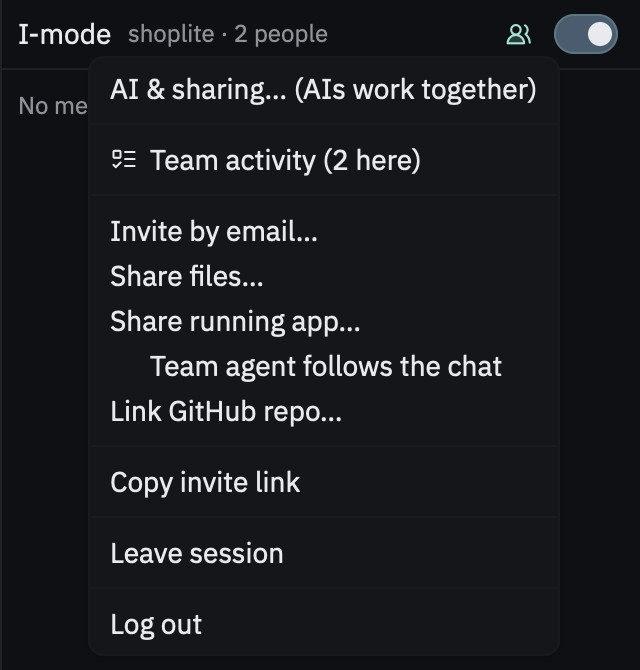
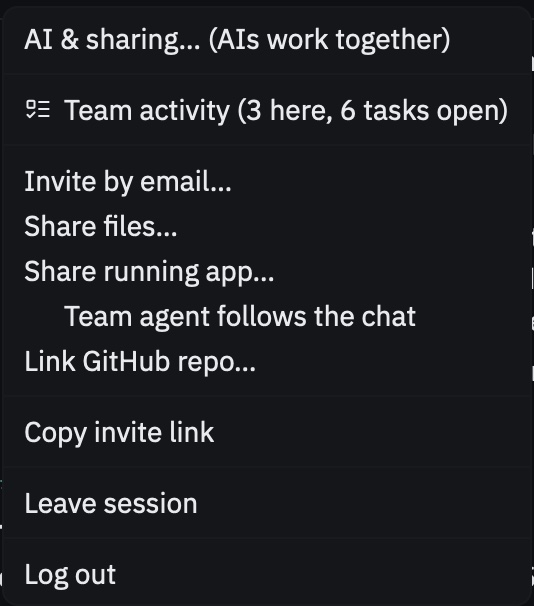
Docs: new screenshots from the current app
Join request, plan, task plan in chat, people menu and Team activity
(Manual, with conflict, to review, not sent and in sync), all taken from
the three-person demo on the final build. Alt text and sizes updated.

diff --git a/site/docs/tutorial.html b/site/docs/tutorial.html
@@ -32,7 +32,7 @@
   <li><strong>Your teammate</strong> opens the link, which opens I-IDE, and signs in if asked. Their panel says they've asked to join.</li>
   <li>In your panel, a request appears with their email address. Check it, then select <strong>Approve</strong>.</li>
 </ol>
-<figure class="small"><img width="276" height="132" src="/docs/img/join-request.jpg" alt="The I-mode panel showing carol@example.test wants to join, with Decline and Approve buttons." loading="lazy"><figcaption>A join request in the owner's panel.</figcaption></figure>
+<figure class="small"><img width="320" height="70" src="/docs/img/join-request.jpg" alt="The top of the I-mode panel: dana@example.test wants to join, with Decline and Approve buttons." loading="lazy"><figcaption>A join request in the owner's panel.</figcaption></figure>
 <p>Your teammate joins as soon as you approve, and the people count at the top of the panel goes up.</p>
 <div class="callout tip"><strong>Tip</strong><p>Don't recognize the email address? Select <strong>Decline</strong>. That account can't ask to join this session again.</p></div>
 <h2>4. Talk through the plan</h2>
@@ -41,7 +41,7 @@
   <li>Say what you're building and who is good at what. For example: "I know the storage code, so I'll take that. Can you do the form and tests?"</li>
   <li>Press <kbd>Return</kbd> to send. Your teammate sees the message right away.</li>
 </ol>
-<figure class="small"><img width="319" height="826" src="/docs/img/plan-mode.jpg" alt="The I-mode panel in Plan mode: the end of a plan with steps that name owners, tests and risks, then Build, Edit plan and Share with team buttons." loading="lazy"><figcaption>A plan in Plan mode, ready to build or share.</figcaption></figure>
+<figure class="small"><img width="318" height="665" src="/docs/img/plan-mode.jpg" alt="The I-mode panel in Plan mode: the end of a plan with steps that name owners, tests and risks, then Build, Edit plan and Share with team buttons." loading="lazy"><figcaption>A plan in Plan mode, ready to build or share.</figcaption></figure>
 <h2>5. Plan the work</h2>
 <ol>
   <li>Choose <strong>Plan</strong> in the mode menu and describe the work, for example "Plan reminders for tasks".</li>
@@ -66,7 +66,7 @@
 <p>To check changes before they go out, choose <strong>Manual</strong> instead and press sync on a file when it's ready. See <a href="/docs/live-editing">Syncing and merging</a>.</p>
 <h2>8. Review the session</h2>
 <p>Open <strong>Team activity</strong> to see who is here and what they're doing, the tasks, and where every file stands: in sync, not sent, to review or in conflict.</p>
-<figure class="small"><img width="274" height="488" src="/docs/img/team-activity.jpg" alt="Team activity: Bob under People, then Files with the sync switch and four files marked conflict, to review, not sent and in sync." loading="lazy"><figcaption>Team activity.</figcaption></figure>
+<figure class="small"><img width="296" height="545" src="/docs/img/team-activity.jpg" alt="Team activity: Bob and Carol under People, the Tasks section, then Files with the sync switch set to Manual and four files marked conflict, to review, not sent and in sync." loading="lazy"><figcaption>Team activity.</figcaption></figure>
 <h2>9. Finish up</h2>
 <p>Your synced files and their versions stay with the session, so there's nothing you have to commit. If your project uses Git, commit as usual. When you're done, select the people icon, then <strong>Leave session</strong>.</p>
 <h2>Next steps</h2>

diff --git a/site/docs/interface.html b/site/docs/interface.html
@@ -23,12 +23,12 @@
   <li><strong>Chat:</strong> your team's messages and your AI's answers.</li>
   <li><strong>Message box:</strong> the tool row, the box itself, and the mode menu (<strong>Team</strong>, <strong>Ask</strong>, <strong>Plan</strong>, <strong>Agent</strong>) with the model and send button.</li>
 </ol>
-<figure class="small"><img width="319" height="826" src="/docs/img/team-chat.jpg" alt="The I-mode panel: the end of a plan, then the task plan the session made from it, listing each person's tasks." loading="lazy"><figcaption>The I-mode chat after a plan was shared.</figcaption></figure>
+<figure class="small"><img width="318" height="670" src="/docs/img/team-chat.jpg" alt="The I-mode panel: the end of a plan, then the task plan the session made from it, listing each person's tasks." loading="lazy"><figcaption>The I-mode chat after a plan was shared.</figcaption></figure>
 <h2>Team activity</h2>
 <p>The <strong>Team activity</strong> panel sits beside your files. It shows who's here and which file each person is editing, with a colored status: amber for editing, blue for an agent running, grey for idle. Below that are the tasks, and every file with its sync state. See <a href="/docs/team-tab">Team activity</a>.</p>
 <h2>The people menu</h2>
 <p>Select the people icon next to the I-mode switch to choose how your AIs work and share, open Team activity, invite people, share files or your running app, and leave a session. If you're not in a session, it's where you create or join one.</p>
-<figure class="small"><img width="320" height="335" src="/docs/img/people-menu.jpg" alt="The people menu: AI &amp; sharing, Team activity, Invite by email, Share files, Share running app, Team agent follows the chat, Link GitHub repo, Copy invite link, Leave session and Log out." loading="lazy"><figcaption>The people menu, as a session owner sees it.</figcaption></figure>
+<figure class="small"><img width="267" height="303" src="/docs/img/people-menu.jpg" alt="The people menu: AI &amp; sharing, Team activity, Invite by email, Share files, Share running app, Team agent follows the chat, Link GitHub repo, Copy invite link, Leave session and Log out." loading="lazy"><figcaption>The people menu, as a session owner sees it.</figcaption></figure>
 <h2>The Command Palette</h2>
 <p>Press <kbd>Cmd</kbd>+<kbd>Shift</kbd>+<kbd>P</kbd> and start typing what you want to do. The palette lists matching commands with their shortcuts, which makes it the fastest way to learn the app.</p>
 <h2>Next steps</h2>

diff --git a/site/docs/team-tab.html b/site/docs/team-tab.html
@@ -1,7 +1,7 @@
 <article data-page="/docs/team-tab" data-group="Work with your team" data-title="Team activity">
 <h1>Team activity</h1>
 <p class="lede">Team activity is its own panel, next to your file folder. It shows who's here, the tasks, and where every file stands between you and the team.</p>
-<figure class="small"><img width="274" height="488" src="/docs/img/team-activity.jpg" alt="Team activity: Bob under People, then Files with a sync switch set to Manual and four files marked conflict, to review, not sent and in sync." loading="lazy"><figcaption>Team activity during a session.</figcaption></figure>
+<figure class="small"><img width="296" height="545" src="/docs/img/team-activity.jpg" alt="Team activity: Bob and Carol under People, the Tasks section, then Files with the sync switch set to Manual and four files marked conflict, to review, not sent and in sync." loading="lazy"><figcaption>Team activity during a session.</figcaption></figure>
 <p>It opens by itself when you start or join a session. Its button in the status bar shows or hides it, and you can drag the line between it and the file folder to resize it.</p>
 
 <h2>People and tasks</h2>

diff --git a/site/docs/invites.html b/site/docs/invites.html
@@ -21,7 +21,7 @@
 <p>I-IDE keeps waiting for 10 minutes. If the owner hasn't answered by then, open the link again to keep waiting. Your request isn't lost.</p>
 <h2>Approve or decline someone</h2>
 <p>If you own the session, each request appears below the session title, with the person's email address.</p>
-<figure class="small"><img width="276" height="132" src="/docs/img/join-request.jpg" alt="A join request showing carol@example.test wants to join, with Decline and Approve buttons." loading="lazy"><figcaption>A join request.</figcaption></figure>
+<figure class="small"><img width="320" height="70" src="/docs/img/join-request.jpg" alt="The top of the I-mode panel: dana@example.test wants to join, with Decline and Approve buttons." loading="lazy"><figcaption>A join request.</figcaption></figure>
 <ul>
   <li>Select <strong>Approve</strong> to let them in.</li>
   <li>Select <strong>Decline</strong> to turn them away. That account can't ask to join this session again.</li>
